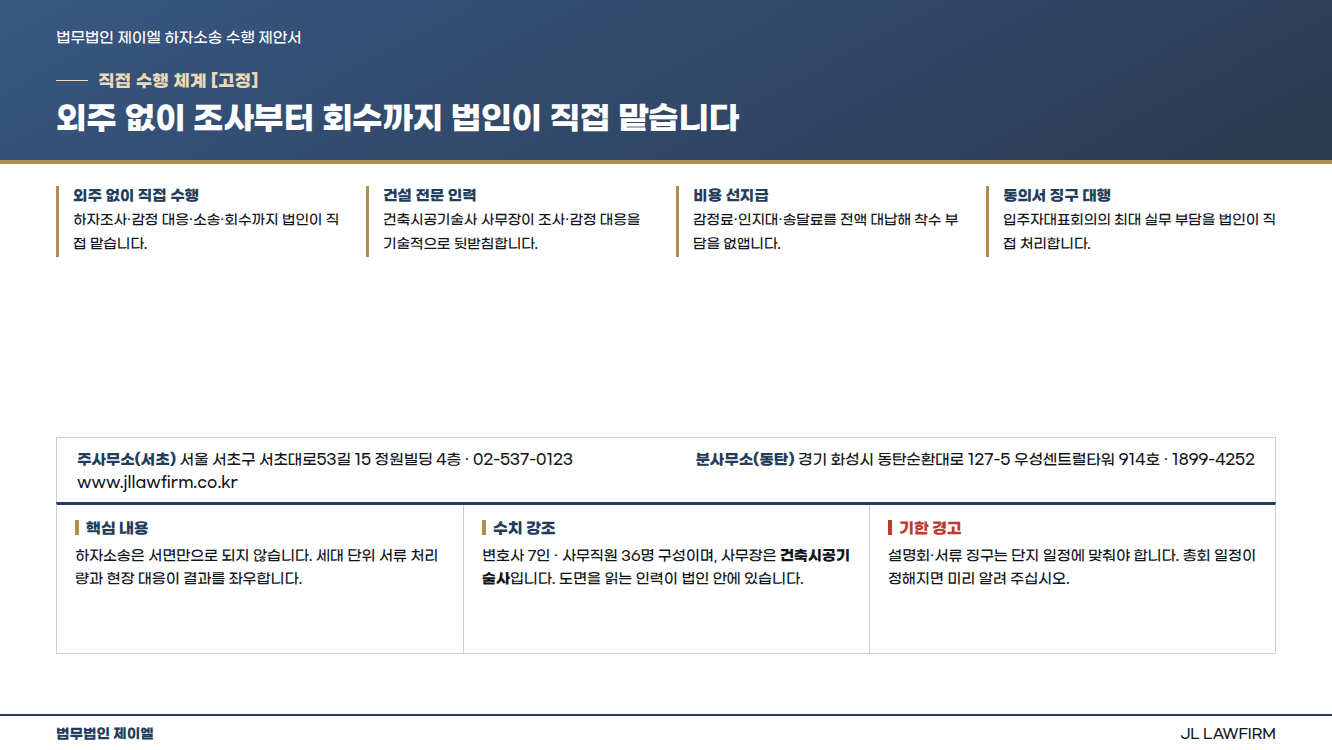
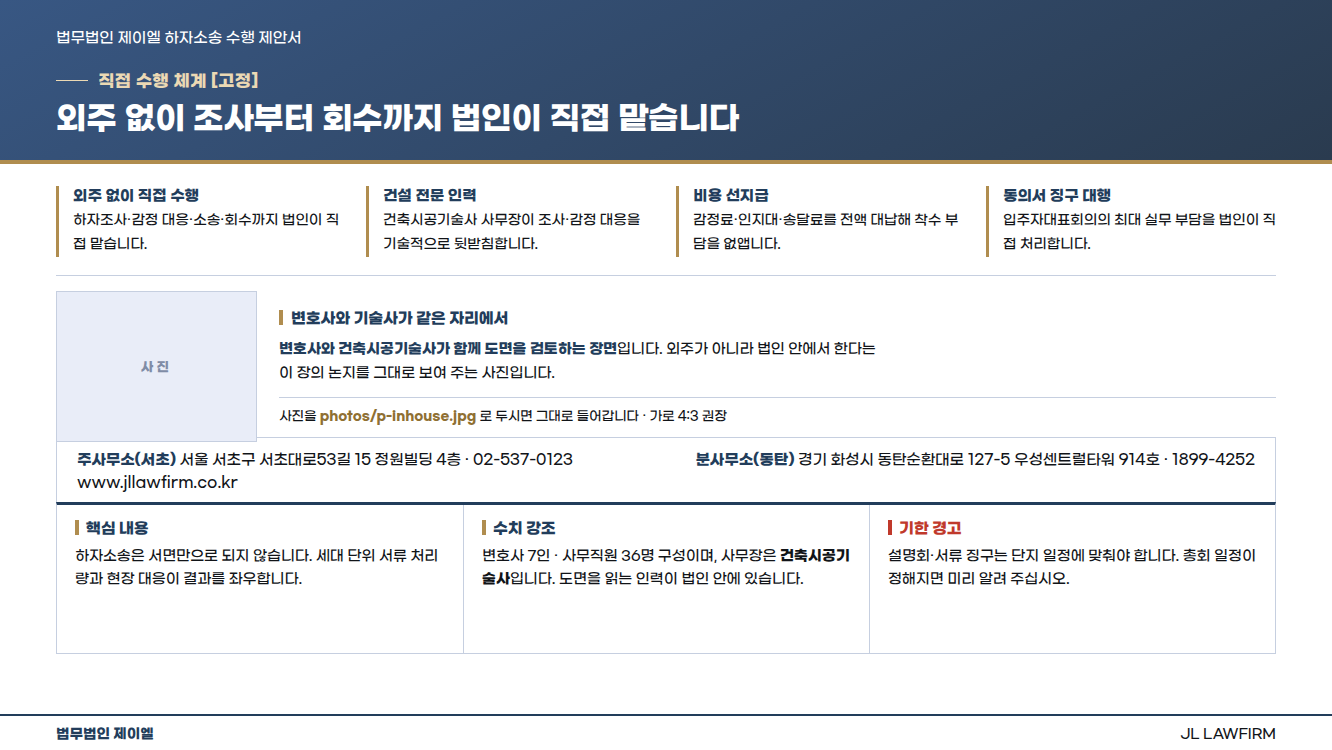
사진 자리 4장 추가 — 여백 과다 0건
본문 컨테이너가 없어 앞선 일괄 처리에서 빠졌던 4장(법인 개요·감정 대응·
감정보완 사유·직접 수행)에 좌표로 사진 자리를 앉혔다.

여백 과다 28장 -> 0장. 사진이 들어가는 장은 43/95장(45%)이 되었다.

Claude-Session: https://claude.ai/code/session_01McKVzc7RRv66NSkAtofwT1

Changed region(s): [[0.1847, 0.3987, 0.6464, 0.5827], [0.0923, 0.46, 0.1231, 0.4907]]

diff --git a/template/design/S20_AppraisalResponse.dc.html b/template/design/S20_AppraisalResponse.dc.html
@@ -95,6 +95,24 @@
   .rsn .i{border:1px solid var(--line);border-top:3px solid var(--navy);background:#fff;padding:12px 15px 13px;}
   .rsn .i .k{font-size:14.5px;font-weight:800;color:var(--navy);letter-spacing:-.01em;}
   .rsn .i .v{margin-top:6px;font-size:12.5px;line-height:1.55;color:var(--ink);}
+
+  /* ── 사진 자리 ── 이 슬라이드는 본문 컨테이너가 없어 좌표로 직접 앉힌다.
+     파일이 없으면 연한 상자로 남고, 넣으면 그대로 채워진다. */
+  .pslot{position:absolute;left:56px;right:56px;display:flex;gap:22px;align-items:stretch;
+    border-top:1.4px solid var(--line);padding-top:15px;}
+  .pslot .pbox{flex:0 0 auto;border:1px solid var(--line);
+    background:var(--card) center/cover no-repeat;position:relative;}
+  .pslot .pbox::after{content:"사진";position:absolute;left:50%;top:50%;
+    transform:translate(-50%,-50%);font-size:13px;font-weight:800;letter-spacing:.24em;color:#7F8CA6;}
+  .pslot .ptx{flex:1;display:flex;flex-direction:column;justify-content:center;}
+  .pslot .ph{font-size:15.5px;font-weight:800;color:var(--navy);
+    display:flex;align-items:center;gap:8px;letter-spacing:-.01em;}
+  .pslot .ph::before{content:"";width:4px;height:15px;background:var(--gold);}
+  .pslot .pd{margin-top:10px;font-size:14.5px;line-height:1.68;color:var(--ink);max-width:610px;}
+  .pslot .pd b{color:var(--navy);font-weight:800;}
+  .pslot .pf{margin-top:12px;padding-top:10px;border-top:1px solid var(--line);
+    font-size:13px;color:var(--ink);}
+  .pslot .pf b{color:var(--gold-ink);font-weight:800;}
 </style>
 </head>
 <body>
@@ -116,6 +134,7 @@
   <div class="verify" style="bottom:56px;height:auto;padding:18px 0 0;border:0;border-top:1.4px solid var(--line);display:block;">
     <div style="border-left:0;padding:0;"><div class="vk warnk">기한 경고</div><div class="vv">감정서가 나온 뒤 보완신청 없이 변론이 종결되면 그대로 확정됩니다. 도착 즉시 검토해야 합니다.</div></div>
   </div>
+  <div class="pslot" style="top:442px;height:168px"><div class="pbox" style="width:204px;height:153px;background-image:url(p-appraisal.jpg)"></div><div class="ptx"><div class="ph">감정인 현장조사 입회</div><div class="pd"><b>감정인 현장조사에 협력 기술진과 함께 입회한 장면</b>입니다. 계측 장비가 함께 보이면 가장 좋습니다. 단지명·동호수가 드러나지 않는 각도로 촬영해 주십시오.</div><div class="pf">사진을 <b>photos/p-appraisal.jpg</b> 로 두시면 그대로 들어갑니다 · 가로 4:3 권장</div></div></div>
   <div class="footer"><span class="firm">법무법인 제이엘</span><span>JL LAWFIRM</span></div>
 </body>
 </html>

diff --git a/template/design/S20b_SupplementReasons.dc.html b/template/design/S20b_SupplementReasons.dc.html
@@ -95,6 +95,24 @@
   .rsn .i{border:1px solid var(--line);border-top:3px solid var(--navy);background:#fff;padding:12px 15px 13px;}
   .rsn .i .k{font-size:14.5px;font-weight:800;color:var(--navy);letter-spacing:-.01em;}
   .rsn .i .v{margin-top:6px;font-size:12.5px;line-height:1.55;color:var(--ink);}
+
+  /* ── 사진 자리 ── 이 슬라이드는 본문 컨테이너가 없어 좌표로 직접 앉힌다.
+     파일이 없으면 연한 상자로 남고, 넣으면 그대로 채워진다. */
+  .pslot{position:absolute;left:56px;right:56px;display:flex;gap:22px;align-items:stretch;
+    border-top:1.4px solid var(--line);padding-top:15px;}
+  .pslot .pbox{flex:0 0 auto;border:1px solid var(--line);
+    background:var(--card) center/cover no-repeat;position:relative;}
+  .pslot .pbox::after{content:"사진";position:absolute;left:50%;top:50%;
+    transform:translate(-50%,-50%);font-size:13px;font-weight:800;letter-spacing:.24em;color:#7F8CA6;}
+  .pslot .ptx{flex:1;display:flex;flex-direction:column;justify-content:center;}
+  .pslot .ph{font-size:15.5px;font-weight:800;color:var(--navy);
+    display:flex;align-items:center;gap:8px;letter-spacing:-.01em;}
+  .pslot .ph::before{content:"";width:4px;height:15px;background:var(--gold);}
+  .pslot .pd{margin-top:10px;font-size:14.5px;line-height:1.68;color:var(--ink);max-width:610px;}
+  .pslot .pd b{color:var(--navy);font-weight:800;}
+  .pslot .pf{margin-top:12px;padding-top:10px;border-top:1px solid var(--line);
+    font-size:13px;color:var(--ink);}
+  .pslot .pf b{color:var(--gold-ink);font-weight:800;}
 </style>
 </head>
 
@@ -116,6 +134,7 @@
     <div><div class="vk">수치 강조</div><div class="vv">감정보완신청 사유는 위 네 가지가 대부분입니다. 어느 하나만 관철되어도 인정 금액이 달라집니다.</div></div>
     <div><div class="vk warnk">기한 경고</div><div class="vv">감정서가 나온 뒤 보완신청 없이 변론이 종결되면 그대로 확정됩니다. 도착 즉시 검토해야 합니다.</div></div>
   </div>
+  <div class="pslot" style="top:328px;height:158px"><div class="pbox" style="width:190px;height:143px;background-image:url(p-supplement.jpg)"></div><div class="ptx"><div class="ph">감정서와 보완신청서</div><div class="pd"><b>감정서 본문에 표시를 해 둔 상태</b>나 실제 제출한 감정보완신청서면입니다. 사건번호·단지명은 가립니다.</div><div class="pf">사진을 <b>photos/p-supplement.jpg</b> 로 두시면 그대로 들어갑니다 · 가로 4:3 권장</div></div></div>
   <div class="footer"><span class="firm">법무법인 제이엘</span><span>JL LAWFIRM</span></div>
 </body>
 </html>

diff --git a/template/design/S26a2_WhyDirect.dc.html b/template/design/S26a2_WhyDirect.dc.html
@@ -90,6 +90,24 @@
   .verify .warnk{color:#C0392B;}
   .verify .warnk::before{background:#C0392B!important;}
   .verify *{background:transparent!important;}
+
+  /* ── 사진 자리 ── 이 슬라이드는 본문 컨테이너가 없어 좌표로 직접 앉힌다.
+     파일이 없으면 연한 상자로 남고, 넣으면 그대로 채워진다. */
+  .pslot{position:absolute;left:56px;right:56px;display:flex;gap:22px;align-items:stretch;
+    border-top:1.4px solid var(--line);padding-top:15px;}
+  .pslot .pbox{flex:0 0 auto;border:1px solid var(--line);
+    background:var(--card) center/cover no-repeat;position:relative;}
+  .pslot .pbox::after{content:"사진";position:absolute;left:50%;top:50%;
+    transform:translate(-50%,-50%);font-size:13px;font-weight:800;letter-spacing:.24em;color:#7F8CA6;}
+  .pslot .ptx{flex:1;display:flex;flex-direction:column;justify-content:center;}
+  .pslot .ph{font-size:15.5px;font-weight:800;color:var(--navy);
+    display:flex;align-items:center;gap:8px;letter-spacing:-.01em;}
+  .pslot .ph::before{content:"";width:4px;height:15px;background:var(--gold);}
+  .pslot .pd{margin-top:10px;font-size:14.5px;line-height:1.68;color:var(--ink);max-width:610px;}
+  .pslot .pd b{color:var(--navy);font-weight:800;}
+  .pslot .pf{margin-top:12px;padding-top:10px;border-top:1px solid var(--line);
+    font-size:13px;color:var(--ink);}
+  .pslot .pf b{color:var(--gold-ink);font-weight:800;}
 </style>
 </head>
 
@@ -118,6 +136,7 @@
     <div><div class="vk">수치 강조</div><div class="vv">변호사 7인 · 사무직원 36명 구성이며, 사무장은 <b>건축시공기술사</b>입니다. 도면을 읽는 인력이 법인 안에 있습니다.</div></div>
     <div><div class="vk warnk">기한 경고</div><div class="vv">설명회·서류 징구는 단지 일정에 맞춰야 합니다. 총회 일정이 정해지면 미리 알려 주십시오.</div></div>
   </div>
+  <div class="pslot" style="top:275px;height:166px"><div class="pbox" style="width:201px;height:151px;background-image:url(p-inhouse.jpg)"></div><div class="ptx"><div class="ph">변호사와 기술사가 같은 자리에서</div><div class="pd"><b>변호사와 건축시공기술사가 함께 도면을 검토하는 장면</b>입니다. 외주가 아니라 법인 안에서 한다는 이 장의 논지를 그대로 보여 주는 사진입니다.</div><div class="pf">사진을 <b>photos/p-inhouse.jpg</b> 로 두시면 그대로 들어갑니다 · 가로 4:3 권장</div></div></div>
   <div class="footer"><span class="firm">법무법인 제이엘</span><span>JL LAWFIRM</span></div>
 </body>
 </html>

diff --git a/template/design/S26_FirmOverview.dc.html b/template/design/S26_FirmOverview.dc.html
@@ -90,6 +90,24 @@
   .verify .warnk{color:#C0392B;}
   .verify .warnk::before{background:#C0392B!important;}
   .verify *{background:transparent!important;}
+
+  /* ── 사진 자리 ── 이 슬라이드는 본문 컨테이너가 없어 좌표로 직접 앉힌다.
+     파일이 없으면 연한 상자로 남고, 넣으면 그대로 채워진다. */
+  .pslot{position:absolute;left:56px;right:56px;display:flex;gap:22px;align-items:stretch;
+    border-top:1.4px solid var(--line);padding-top:15px;}
+  .pslot .pbox{flex:0 0 auto;border:1px solid var(--line);
+    background:var(--card) center/cover no-repeat;position:relative;}
+  .pslot .pbox::after{content:"사진";position:absolute;left:50%;top:50%;
+    transform:translate(-50%,-50%);font-size:13px;font-weight:800;letter-spacing:.24em;color:#7F8CA6;}
+  .pslot .ptx{flex:1;display:flex;flex-direction:column;justify-content:center;}
+  .pslot .ph{font-size:15.5px;font-weight:800;color:var(--navy);
+    display:flex;align-items:center;gap:8px;letter-spacing:-.01em;}
+  .pslot .ph::before{content:"";width:4px;height:15px;background:var(--gold);}
+  .pslot .pd{margin-top:10px;font-size:14.5px;line-height:1.68;color:var(--ink);max-width:610px;}
+  .pslot .pd b{color:var(--navy);font-weight:800;}
+  .pslot .pf{margin-top:12px;padding-top:10px;border-top:1px solid var(--line);
+    font-size:13px;color:var(--ink);}
+  .pslot .pf b{color:var(--gold-ink);font-weight:800;}
 </style>
 </head>
 <body>
@@ -116,6 +134,7 @@
       <div class="d">수도권·대구·경북·충남·전남 등 전국 단지를 수행했습니다.</div></div>
   </div>
 
+  <div class="pslot" style="top:456px;height:232px"><div class="pbox" style="width:289px;height:217px;background-image:url(p-firm.jpg)"></div><div class="ptx"><div class="ph">법인 전경</div><div class="pd"><b>사무실 외관 또는 응접·회의 공간</b>이면 충분합니다. 법인의 규모와 분위기를 한 장으로 보여 주는 자리입니다.</div><div class="pf">사진을 <b>photos/p-firm.jpg</b> 로 두시면 그대로 들어갑니다 · 가로 4:3 권장</div></div></div>
   <div class="footer"><span class="firm">법무법인 제이엘</span><span>JL LAWFIRM</span></div>
 </body>
 </html>
